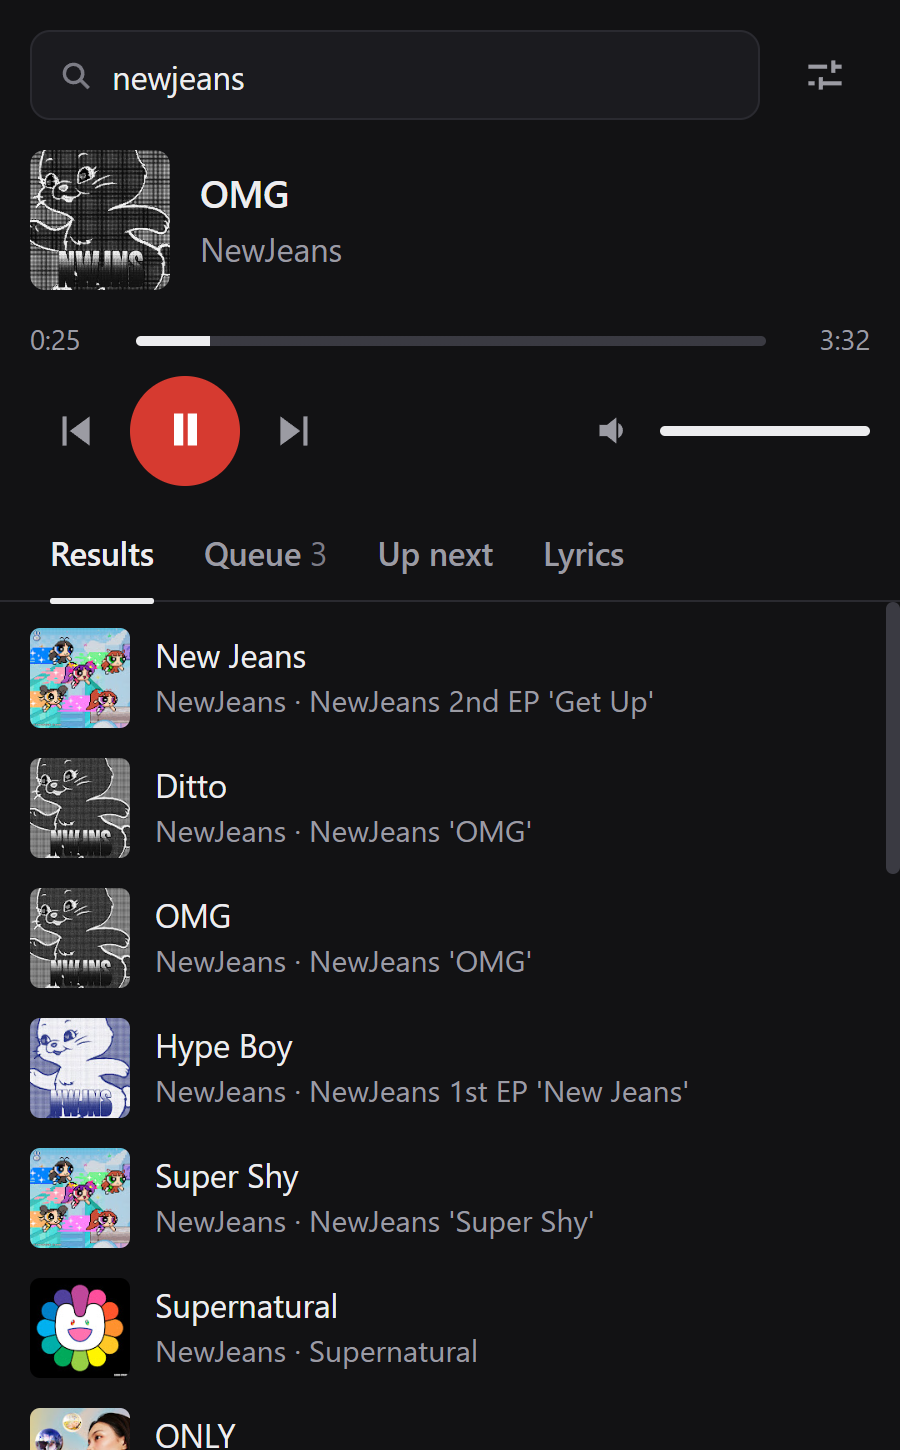
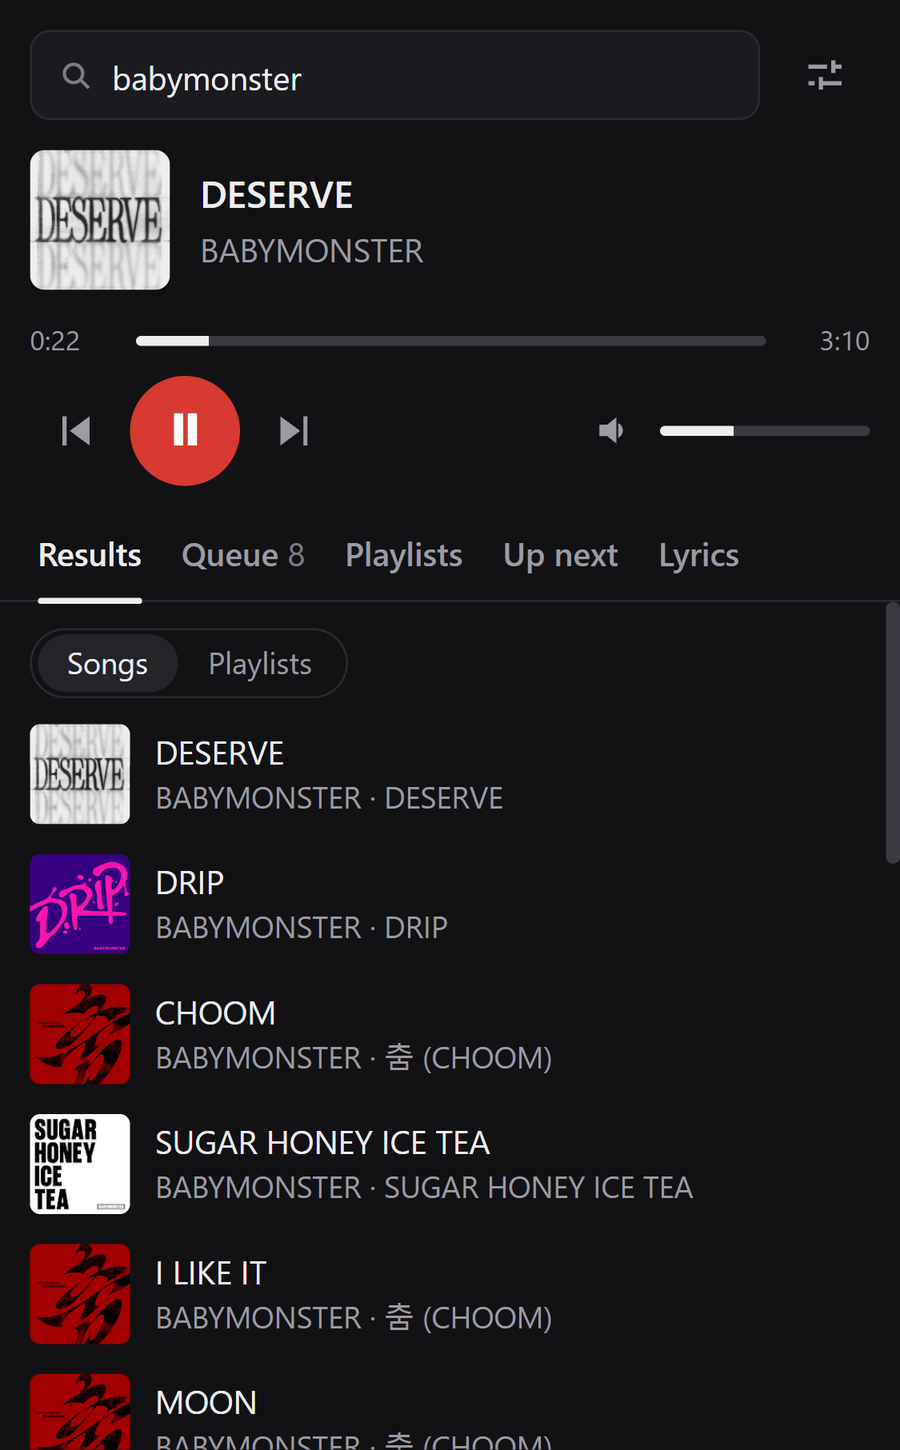
Update README screenshots to show playlists
Three screenshots: song search while playing, YouTube Music playlist
search, and the Playlists tab. The queue screenshot is replaced.

diff --git a/README.md b/README.md
@@ -4,8 +4,9 @@ Search, play, queue, and sing along to YouTube Music songs right from your brows
 opening a YouTube Music tab and without an API key.
 
 <p>
-  <img src="docs/screenshot-search.png" alt="PocketBeat popup showing song search results" width="300">
-  <img src="docs/screenshot-queue.png" alt="PocketBeat popup showing the play queue" width="300">
+  <img src="docs/screenshot-search.png" alt="PocketBeat popup showing song search results while a song plays" width="250">
+  <img src="docs/screenshot-playlist-search.png" alt="PocketBeat popup showing YouTube Music playlist search results" width="250">
+  <img src="docs/screenshot-playlists.png" alt="PocketBeat popup showing the Playlists tab with saved playlists" width="250">
 </p>
 
 ## Features
